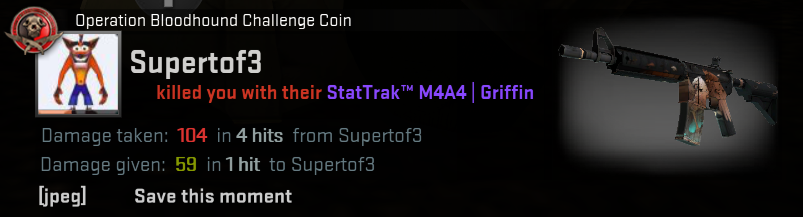
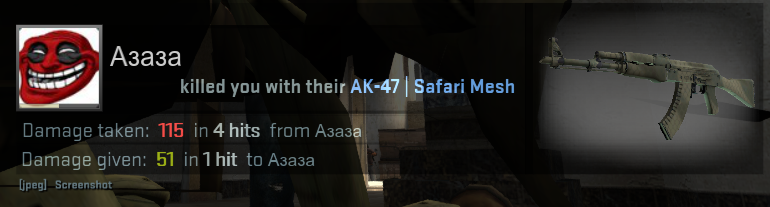
Some updates
-Updated screenshots
-Updated damage & MVP

diff --git a/README.md b/README.md
@@ -31,6 +31,12 @@ Simplified csgo_english.txt and valve_english.txt with more COLORS
 
 - Changed taken damage to red and given to green to improve readability
 
+### MVP
+
+![MVP](/readme/mvp.png)
+
+- Slightly hilighted MVP and funfact strings
+
 ### Chat
 
 ![Chat](/readme/chat.png)
